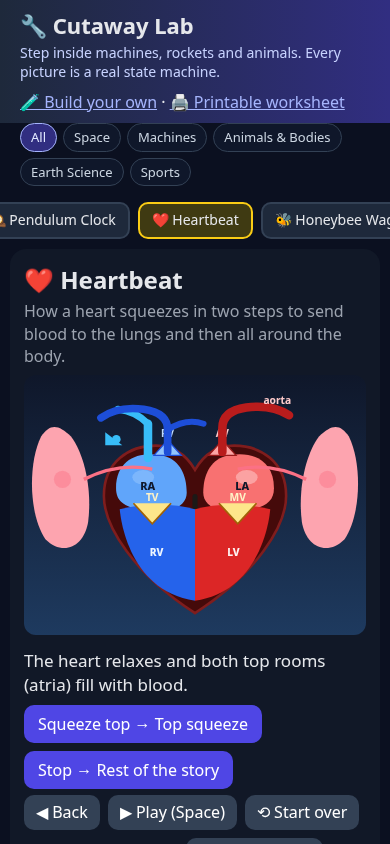
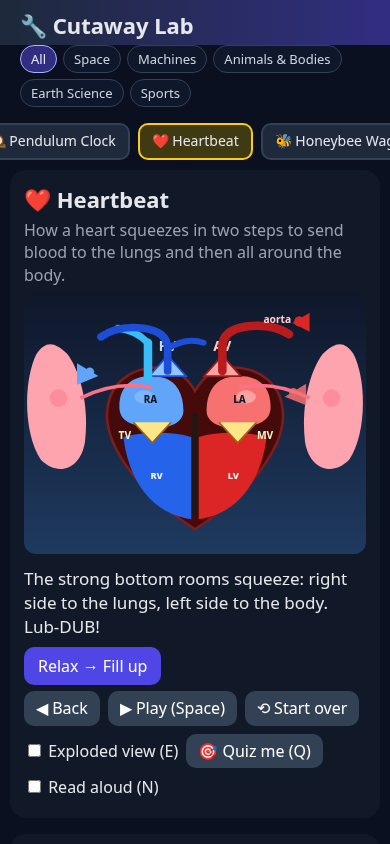
v1.0: phone chrome compact + heart valve spacing + flush siphon copy
- Hide tagline on ≤760px; topics scroll horizontally
- TV/MV labels outboard of chambers
- Siphon 'pulls' the bowl empty (not 'sucks')

diff --git a/src/style.css b/src/style.css
@@ -15,7 +15,7 @@ aside{background:#111827;border-radius:16px;padding:14px;max-height:calc(100vh -
 #parts{max-height:28vh;overflow-y:auto;padding-right:4px;scrollbar-width:thin}#parts li{cursor:help;font-size:14px;line-height:1.35}pre{white-space:pre-wrap;font-size:12px;color:#a5b4fc}
 dialog{background:#1e293b;color:#e5e7eb;border:2px solid #facc15;border-radius:16px;max-width:460px;width:92vw}#qchoices button{display:block;width:100%;margin:6px 0;padding:10px;border-radius:10px;border:1px solid #475569;background:#0f172a;color:#e5e7eb;text-align:left}
 #qchoices button.right{background:#14532d}#qchoices button.wrong{background:#7f1d1d}
-@media (max-width:760px){main{grid-template-columns:1fr;padding:0 10px 10px}#caption{font-size:17px}nav{flex-wrap:nowrap;max-height:none;padding:10px;gap:8px}nav button{flex:0 0 auto;white-space:nowrap;font-size:14px;padding:8px 12px}#chart{max-height:40vh}#stage{min-height:260px}}
+@media (max-width:760px){main{grid-template-columns:1fr;padding:0 10px 10px}#caption{font-size:17px}nav{flex-wrap:nowrap;max-height:none;padding:10px;gap:8px}nav button{flex:0 0 auto;white-space:nowrap;font-size:14px;padding:8px 12px}#chart{max-height:40vh}#stage{min-height:260px}header p{display:none}header{padding-bottom:4px}.topics{padding:0 10px 4px;gap:4px;flex-wrap:nowrap;overflow-x:auto;-webkit-overflow-scrolling:touch}.topics button{flex:0 0 auto;font-size:12px;padding:3px 8px}#title{font-size:22px}}
 #badge{margin:4px 0 0;color:#fde68a;font-weight:700;min-height:1px}
 #chart{width:100%;display:block;margin-bottom:6px}#chart rect{fill:#1f2937;stroke:#475569;rx:8;transition:fill .4s}#chart g.on rect{fill:#854d0e;stroke:#facc15}#chart g.done rect{stroke:#86efac}
 #chart text{fill:#e5e7eb;font-size:13px;font-weight:600}#chart path{fill:none;stroke:#64748b;stroke-width:1.5;marker-end:url(#arr)}#chart path.back{stroke-dasharray:4 3}#chart g.node{cursor:pointer}

diff --git a/machines/heart.js b/machines/heart.js
@@ -16,9 +16,9 @@ export default {
     { id: 'lv', label: 'Left ventricle', job: 'pumps blood out to the whole body',
       svg: '<path d="M288 155 C288 155 282 250 200 262 L200 155 C225 148 260 148 288 155Z" fill="#dc2626"/><text x="245" y="210" text-anchor="middle" fill="#fef2f2" font-size="12" font-weight="800">LV</text>', explode: [52, 40] },
     { id: 'tricuspid', label: 'Tricuspid valve', job: 'doors that let blood move one way',
-      svg: '<path d="M128 148 L150 172 L172 148" fill="#fde68a" stroke="#a16207" stroke-width="2"/><text x="150" y="188" text-anchor="middle" fill="#fef3c7" font-size="12" font-weight="700">TV</text>', explode: [-35, 5] },
+      svg: '<path d="M128 148 L150 172 L172 148" fill="#fde68a" stroke="#a16207" stroke-width="2"/><text x="118" y="168" text-anchor="middle" fill="#fef3c7" font-size="12" font-weight="700">TV</text>', explode: [-35, 5] },
     { id: 'mitral', label: 'Mitral valve', job: 'doors that let blood move one way',
-      svg: '<path d="M228 148 L250 172 L272 148" fill="#fde68a" stroke="#a16207" stroke-width="2"/><text x="250" y="188" text-anchor="middle" fill="#fef3c7" font-size="12" font-weight="700">MV</text>', explode: [35, 5] },
+      svg: '<path d="M228 148 L250 172 L272 148" fill="#fde68a" stroke="#a16207" stroke-width="2"/><text x="282" y="168" text-anchor="middle" fill="#fef3c7" font-size="12" font-weight="700">MV</text>', explode: [35, 5] },
     { id: 'pulm', label: 'Pulmonary valve', job: 'lets blood out to the lungs',
       svg: '<path d="M152 92 L168 74 L184 92Z" fill="#93c5fd" stroke="#1d4ed8" stroke-width="1.5"/><text x="168" y="70" text-anchor="middle" fill="#bfdbfe" font-size="12" font-weight="700">PV</text>', explode: [-55, -70] },
     { id: 'aortic', label: 'Aortic valve', job: 'lets blood out to the body',

diff --git a/machines/flush.js b/machines/flush.js
@@ -11,7 +11,7 @@ export default {
       svg: '<ellipse cx="200" cy="130" rx="22" ry="10" fill="#334155" stroke="#f87171" stroke-width="2"/>', explode: [0, 20] },
     { id: 'bowl', label: 'Bowl', job: 'holds water that the siphon will empty',
       svg: '<path d="M120 160 H280 Q300 160 300 190 Q300 260 200 280 Q100 260 100 190 Q100 160 120 160Z" fill="#1e3a5f" stroke="#7dd3fc" stroke-width="3"/><ellipse cx="200" cy="200" rx="70" ry="30" fill="#0ea5e9" opacity=".5"/>', explode: [0, 40] },
-    { id: 'siphon', label: 'Siphon', job: 'is the S-shaped pipe that sucks the bowl empty once flow starts',
+    { id: 'siphon', label: 'Siphon', job: 'is the S-shaped pipe that pulls the bowl empty once flow starts',
       svg: '<path d="M240 250 Q280 250 280 220 Q280 190 250 190" stroke="#64748b" stroke-width="10" fill="none" stroke-linecap="round"/><text x="300" y="220" fill="#94a3b8" font-size="11" font-weight="700">siphon</text>', explode: [45, 20] },
     { id: 'fill', label: 'Fill valve', job: 'refills the tank after a flush',
       svg: '<rect x="120" y="50" width="14" height="80" fill="#94a3b8"/><circle cx="127" cy="50" r="8" fill="#22c55e"/>', pose: { opacity: 0.5 } },
